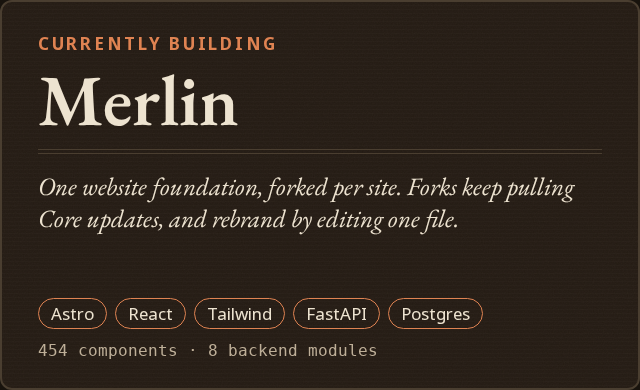
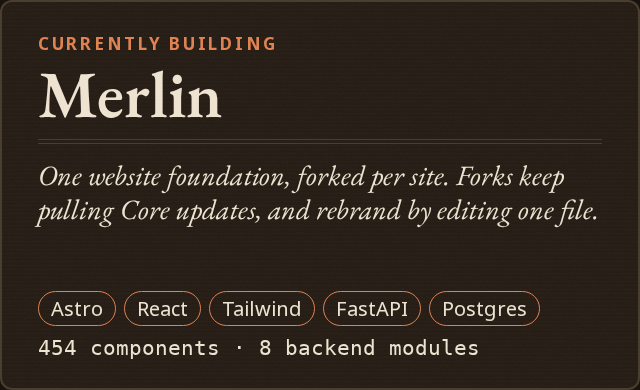
fix(tools): enlarge now-building's small text
The plate is shown at half size, so its facts line read at about 8px
and its tags at 8.5px. Facts, tags and pitch are larger, the facts in
full ink rather than muted; the masthead gives up a little height to
keep everything on the plate.

Changed region(s): [[0.0312, 0.1846, 0.9375, 0.6154], [0.0625, 0.7385, 0.8438, 0.9231]]

diff --git a/tools/social-card/layouts/now-building.html b/tools/social-card/layouts/now-building.html
@@ -49,17 +49,17 @@
   }
 
   .overline { font: bold 17px "Noto Sans", sans-serif; letter-spacing: var(--tracking-caps); text-transform: uppercase; color: var(--ember); }
-  .name { font: 600 72px/1 "EB Garamond", serif; margin-top: 8px; white-space: nowrap; }
+  .name { font: 600 66px/1 "EB Garamond", serif; margin-top: 6px; white-space: nowrap; }
   /* the double rule under the masthead */
-  .rule { height: 5px; margin: 14px 0 16px; border-top: 1.5px solid var(--hairline); border-bottom: 1.5px solid var(--hairline); }
-  .pitch { font: italic 25px/1.28 "EB Garamond", serif; color: var(--ink); white-space: pre-line; }
+  .rule { height: 5px; margin: 12px 0 14px; border-top: 1.5px solid var(--hairline); border-bottom: 1.5px solid var(--hairline); }
+  .pitch { font: italic 28px/1.22 "EB Garamond", serif; color: var(--ink); white-space: pre-line; }
 
-  .foot { margin-top: auto; display: flex; flex-direction: column; gap: 12px; }
+  .foot { margin-top: auto; display: flex; flex-direction: column; gap: 10px; }
   .tags { display: flex; flex-wrap: wrap; gap: 8px; }
   /* Ember marks badges as an outline, never a fill */
   .tags span { padding: 3px 12px; border-radius: 999px; border: 1.5px solid var(--ember);
-    font: 17px "Noto Sans", sans-serif; color: var(--ink); }
-  .facts { font: 16px "DejaVu Sans Mono", monospace; color: var(--muted); white-space: nowrap; }
+    font: 20px "Noto Sans", sans-serif; color: var(--ink); }
+  .facts { font: 21px "DejaVu Sans Mono", monospace; color: var(--ink); white-space: nowrap; }
 </style>
 </head>
 <body>
